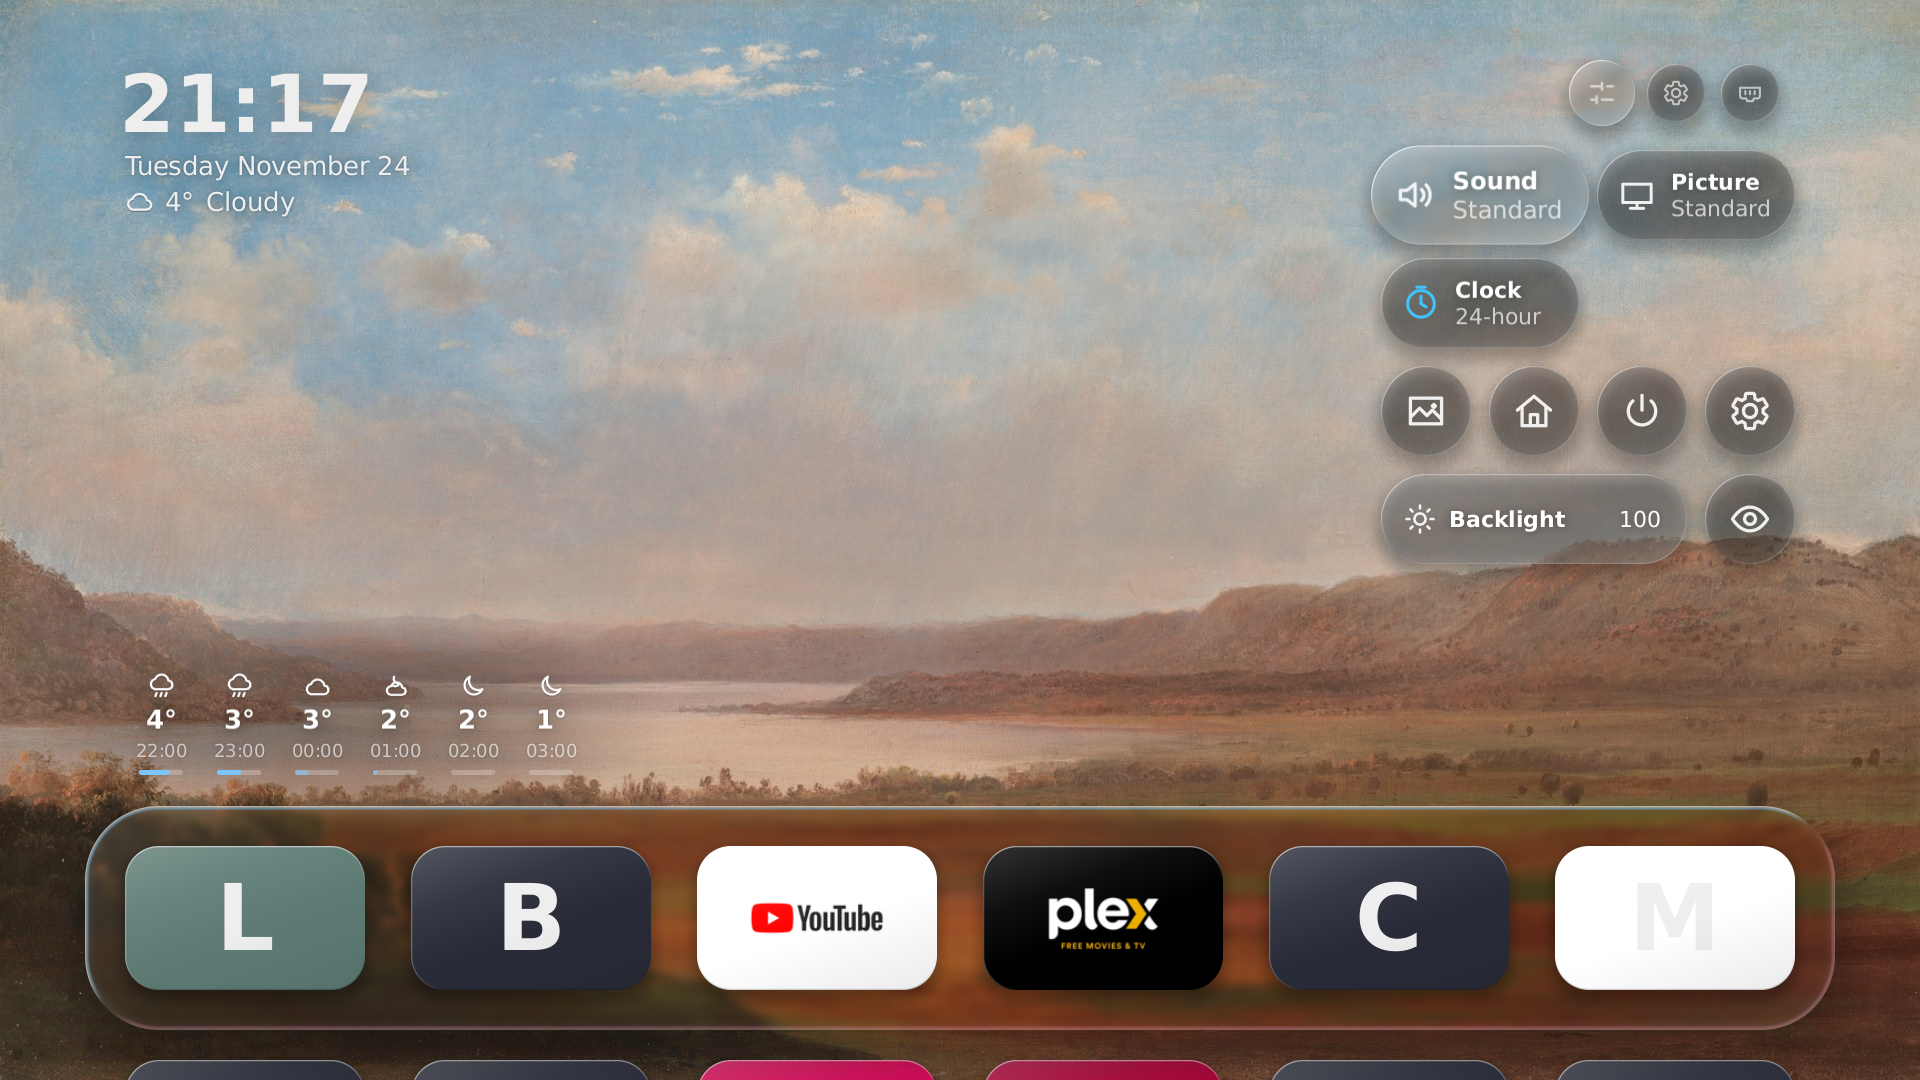
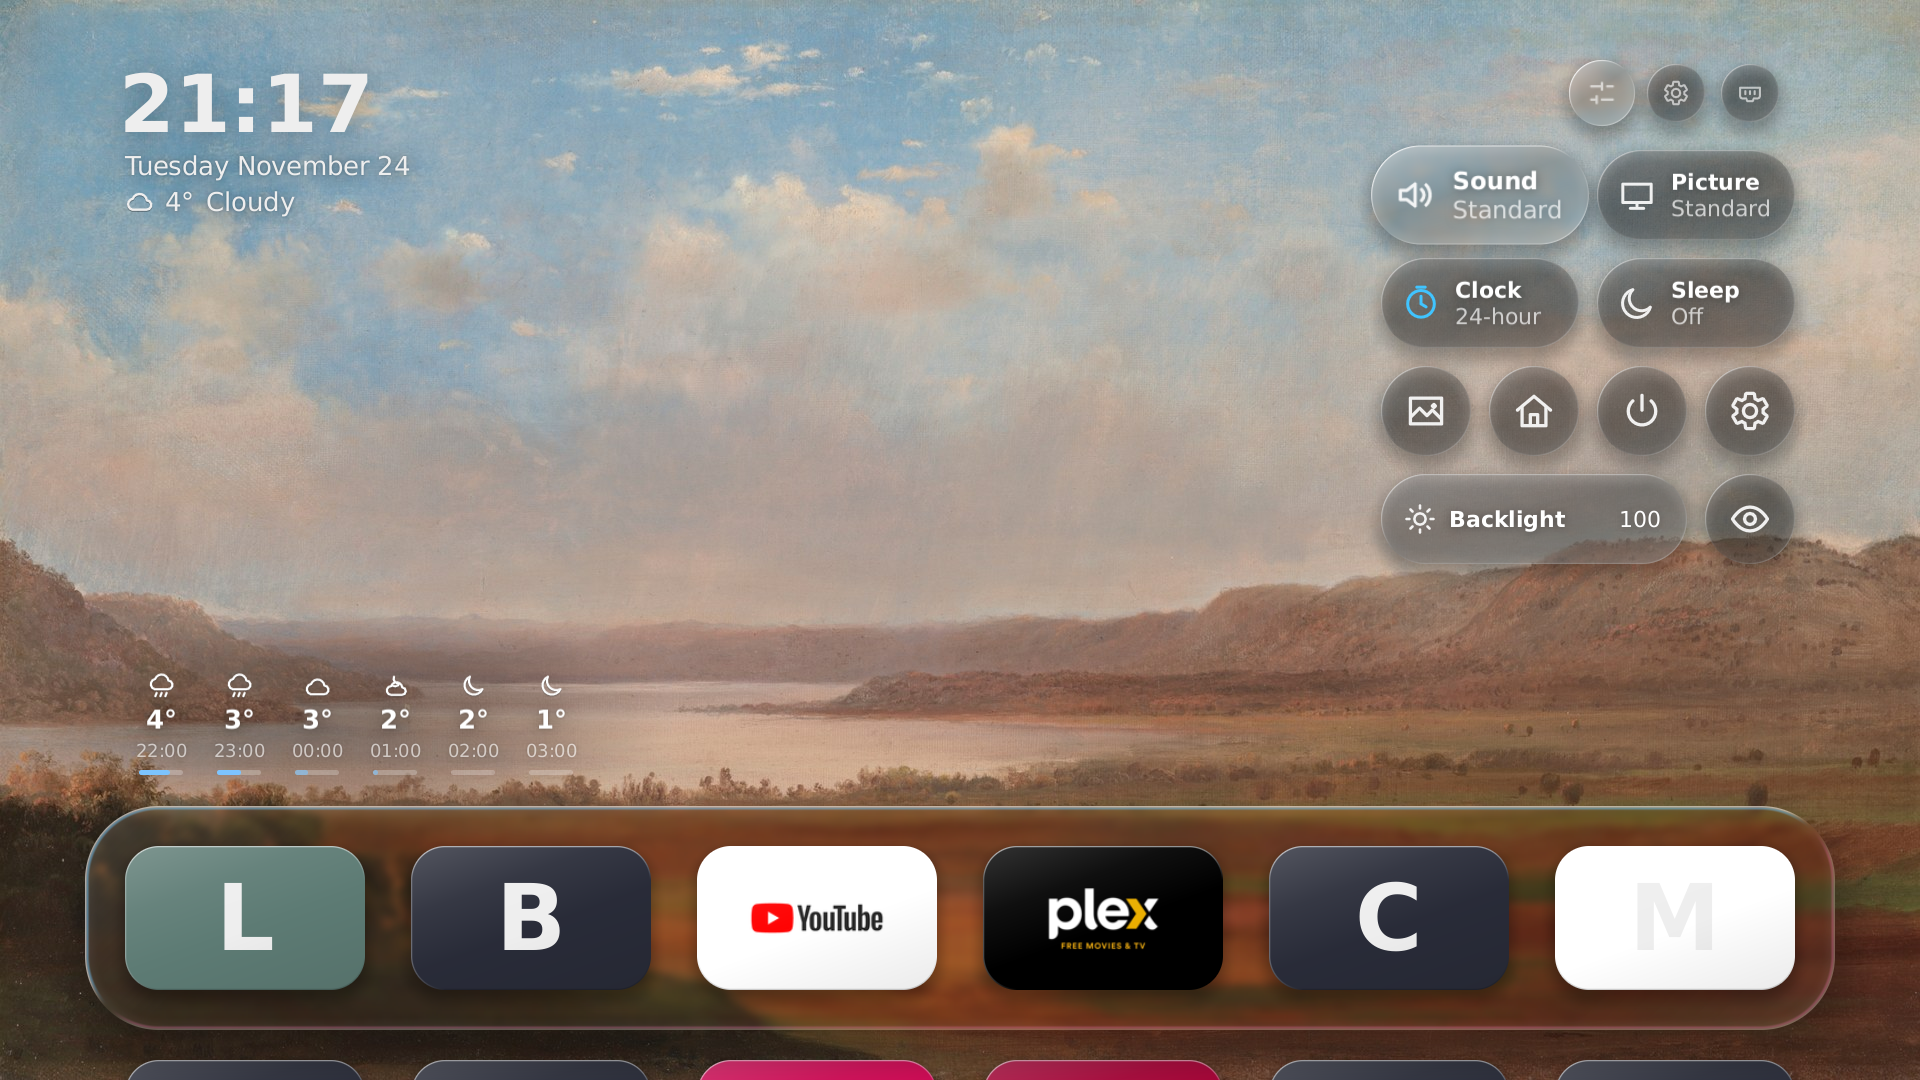
Lumen Native: Control Center has a Sleep timer where the light and dark switch was

Changed region(s): [[0.8125, 0.2139, 0.9375, 0.3361]]

diff --git a/native/lumen/src/control_center.rs b/native/lumen/src/control_center.rs
@@ -32,6 +32,7 @@ enum Cell {
     Sound,
     Picture,
     Clock,
+    Sleep,
     Art,
     Home,
     ScreenOff,
@@ -40,14 +41,15 @@ enum Cell {
     Eye,
 }
 
-// ponytail: the Theme tile (dark only) and Restart, which only Quick Settings' layout shows
+// ponytail: Restart, which only Quick Settings' layout shows
 const GRID: [&[(Cell, usize)]; 4] = [
     &[(Cell::Sound, 2), (Cell::Picture, 2)],
-    &[(Cell::Clock, 2)],
+    &[(Cell::Clock, 2), (Cell::Sleep, 2)],
     &[(Cell::Art, 1), (Cell::Home, 1), (Cell::ScreenOff, 1), (Cell::Settings, 1)],
     &[(Cell::Backlight, 3), (Cell::Eye, 1)],
 ];
 const COLUMNS: usize = 4;
+const SLEEP_CHOICES: [&str; 7] = ["off", "10", "30", "60", "90", "120", "180"];
 
 const UNIT: f32 = 90.0;
 const GAP: f32 = 18.0;
@@ -95,6 +97,7 @@ const CAPTION: Style = Style { shadows: &CAPTION_SHADOW, ..NAME };
 
 const SPEAKER: &str = "M4 9.5h3.5L12 6v12l-4.5-3.5H4zM15.5 9a4 4 0 0 1 0 6M18 6.5a8 8 0 0 1 0 11";
 const PICTURE: &str = "M3.5 5.5h17v11h-17zM8 20h8M12 16.5V20";
+const MOON: &str = "M20 14.5A8.5 8.5 0 1 1 9.5 4a6.8 6.8 0 0 0 10.5 10.5z";
 const TIMER: &str = "M12 8v4.5l3 1.8M12 4.5a8 8 0 1 0 0 16 8 8 0 0 0 0-16zM9.5 2.5h5";
 const HOUSE: &str = "M3 11.5 12 4l9 7.5M5.5 9.8V20h13V9.8M10 20v-6h4v6";
 const GEAR: &str = "M19.14 12.94c.04-.3.06-.61.06-.94 0-.32-.02-.64-.07-.94l2.03-1.58c.18-.14.23-.41.12-.61l-1.92-3.32c-.12-.22-.37-.29-.59-.22l-2.39.96c-.5-.38-1.03-.7-1.62-.94l-.36-2.54c-.04-.24-.24-.41-.48-.41h-3.84c-.24 0-.43.17-.47.41l-.36 2.54c-.59.24-1.13.57-1.62.94l-2.39-.96c-.22-.08-.47 0-.59.22L2.74 8.87c-.12.21-.08.47.12.61l2.03 1.58c-.05.3-.09.63-.09.94s.02.64.07.94l-2.03 1.58c-.18.14-.23.41-.12.61l1.92 3.32c.12.22.37.29.59.22l2.39-.96c.5.38 1.03.7 1.62.94l.36 2.54c.05.24.24.41.48.41h3.84c.24 0 .44-.17.47-.41l.36-2.54c.59-.24 1.13-.56 1.62-.94l2.39.96c.22.08.47 0 .59-.22l1.92-3.32c.12-.22.07-.47-.12-.61l-2.01-1.58zM12 15.6c-1.98 0-3.6-1.62-3.6-3.6s1.62-3.6 3.6-3.6 3.6 1.62 3.6 3.6-1.62 3.6-3.6 3.6z";
@@ -180,6 +183,7 @@ fn cell_label(cell: Cell) -> &'static str {
         Cell::Sound => "Sound",
         Cell::Picture => "Picture",
         Cell::Clock => "Clock",
+        Cell::Sleep => "Sleep",
         Cell::Art => "Screensaver",
         Cell::Home => "LG Home",
         Cell::ScreenOff => "Screen off",
@@ -203,6 +207,7 @@ fn list_glyph(cell: Cell) -> &'static str {
     match cell {
         Cell::Sound => SPEAKER,
         Cell::Picture => PICTURE,
+        Cell::Sleep => MOON,
         _ => TIMER,
     }
 }
@@ -219,6 +224,7 @@ fn options(cell: Cell) -> Vec<(String, String)> {
     match cell {
         Cell::Sound => SOUND_MODES.iter().map(|m| (m.to_string(), tvcontrols::sound_label(m).to_string())).collect(),
         Cell::Picture => PICTURE_MODES.iter().map(|m| (m.to_string(), tvcontrols::picture_label(m).to_string())).collect(),
+        Cell::Sleep => SLEEP_CHOICES.iter().map(|m| (m.to_string(), tvcontrols::sleep_label(m))).collect(),
         _ => ["auto", "12h", "24h"].iter().map(|f| (f.to_string(), clock_label(f).to_string())).collect(),
     }
 }
@@ -318,7 +324,7 @@ struct Row<'a> {
     mark: Mark,
     mark_box: f32,
     name: &'a str,
-    sub: Option<&'a str>,
+    sub: Option<String>,
     ink: [f32; 3],
 }
 
@@ -535,7 +541,7 @@ impl ControlCenter {
                 });
                 Outcome::Stay
             }
-            Cell::Sound | Cell::Picture | Cell::Clock => {
+            Cell::Sound | Cell::Picture | Cell::Clock | Cell::Sleep => {
                 self.open_menu(cell, now);
                 Outcome::Stay
             }
@@ -558,6 +564,7 @@ impl ControlCenter {
         match cell {
             Cell::Sound => values.sound.clone(),
             Cell::Picture => values.picture.clone(),
+            Cell::Sleep => values.sleep.clone(),
             _ => self.clock_format.clone(),
         }
     }
@@ -609,6 +616,17 @@ impl ControlCenter {
                 tvcontrols::set_picture_mode(&value, |done| match done {
                     Ok(()) => tvcontrols::read_backlight(),
                     Err(_) => toast_later("Couldn't change the picture mode"),
+                });
+                Outcome::Stay
+            }
+            Cell::Sleep => {
+                let before = values.sleep;
+                tvcontrols::patch(|c| c.sleep = value.clone());
+                tvcontrols::set_sleep_timer(&value, move |done| {
+                    if done.is_err() {
+                        tvcontrols::patch(|c| c.sleep = before);
+                        toast_later("Couldn't set the sleep timer");
+                    }
                 });
                 Outcome::Stay
             }
@@ -670,16 +688,17 @@ impl ControlCenter {
         if let Some(text) = d.text(row.name, &NAME) {
             text.draw_scaled(d, tx, cy + name_baseline * k, k, alpha);
         }
-        if let Some(text) = row.sub.and_then(|sub| d.text(sub, &SUB)) {
+        if let Some(text) = row.sub.as_deref().and_then(|sub| d.text(sub, &SUB)) {
             text.draw_scaled(d, tx, cy + 21.2 * k, k, 0.7 * alpha);
         }
     }
 
     fn tile_row<'a>(&'a self, cell: Cell, values: &'a Controls) -> Row<'a> {
         let (sub, on) = match cell {
-            Cell::Sound => (tvcontrols::sound_label(&values.sound), false),
-            Cell::Picture => (tvcontrols::picture_label(&values.picture), false),
-            _ => (clock_label(&self.clock_format), self.clock_format != "auto"),
+            Cell::Sound => (tvcontrols::sound_label(&values.sound).to_string(), false),
+            Cell::Picture => (tvcontrols::picture_label(&values.picture).to_string(), false),
+            Cell::Sleep => (tvcontrols::sleep_label(&values.sleep), values.sleep != "off"),
+            _ => (clock_label(&self.clock_format).to_string(), self.clock_format != "auto"),
         };
         Row {
             width: 2.0 * UNIT + GAP,
@@ -696,7 +715,7 @@ impl ControlCenter {
         let k = scale * (1.0 + (FOCUS_LIFT - 1.0) * f);
         Self::glass(d, cx, cy, w * k, h * k, f, alpha);
         match cell {
-            Cell::Sound | Cell::Picture | Cell::Clock => Self::row_inside(d, &self.tile_row(cell, values), cx, cy, k, alpha),
+            Cell::Sound | Cell::Picture | Cell::Clock | Cell::Sleep => Self::row_inside(d, &self.tile_row(cell, values), cx, cy, k, alpha),
             Cell::Backlight => {
                 let filled = w * values.backlight as f32 / 100.0;
                 let (x, y) = (cx - w * k / 2.0, cy - h * k / 2.0);
@@ -896,6 +915,12 @@ mod tests {
 
     fn press(panel: &mut ControlCenter, keys: &[Key], now: u32) -> Outcome {
         keys.iter().fold(Outcome::Stay, |_, key| panel.react(*key, now, 160.0))
+    }
+
+    #[test]
+    fn every_sleep_time_offered_is_one_the_tv_takes_and_the_list_is_no_longer_than_picture_modes() {
+        assert!(SLEEP_CHOICES.iter().all(|m| crate::root::SLEEP_MINUTES.contains(m)));
+        assert!(options(Cell::Sleep).len() <= options(Cell::Picture).len());
     }
 
     #[test]

diff --git a/native/lumen/src/root.rs b/native/lumen/src/root.rs
@@ -17,6 +17,7 @@ const GET_SETTINGS: &str = "luna://com.webos.settingsservice/getSystemSettings";
 const SET_SETTINGS: &str = "luna://com.webos.settingsservice/setSystemSettings";
 const SCREEN_OFF: &str = "luna://com.webos.service.tvpower/power/turnOffScreen";
 pub const PICTURE_MODES: [&str; 7] = ["vivid", "normal", "eco", "cinema", "sports", "game", "filmMaker"];
+pub const SLEEP_MINUTES: [&str; 9] = ["off", "10", "20", "30", "60", "90", "120", "180", "240"];
 pub const SOUND_MODES: [&str; 7] = ["standard", "news", "movie", "music", "sports", "game", "aiSound"];
 const NATIVE_DIR: &str = "/media/developer/apps/usr/palm/applications/com.samrenfrew.lumen.native";
 const TV_SCRIPTS: [&str; 6] = ["watch.sh", "stadia.sh", "resume.sh", "home-setup.sh", "privacy.sh", "gear.sh"];
@@ -143,6 +144,7 @@ fn setting_category(key: &str) -> Option<&'static str> {
     match key {
         "pictureMode" | "backlight" | "eyeComfortMode" => Some("picture"),
         "soundMode" => Some("sound"),
+        "sleepTimer" => Some("time"),
         _ => None,
     }
 }
@@ -151,6 +153,7 @@ fn setting_value_allowed(key: &str, value: &str) -> bool {
     match key {
         "pictureMode" => PICTURE_MODES.contains(&value),
         "soundMode" => SOUND_MODES.contains(&value),
+        "sleepTimer" => SLEEP_MINUTES.contains(&value),
         "backlight" => value.parse::<u8>().is_ok_and(|level| level <= 100 && level.to_string() == value),
         "eyeComfortMode" => value == "on" || value == "off",
         _ => false,
@@ -575,7 +578,11 @@ mod tests {
         );
         assert!(set_setting_command("soundMode", "aiSound").is_some());
         assert!(set_setting_command("backlight", "0").is_some() && set_setting_command("backlight", "100").is_some());
-        for (key, value) in [("pictureMode", "expert1"), ("backlight", "101"), ("backlight", "07"), ("backlight", "-1"), ("eyeComfortMode", "on'; reboot"), ("energySaving", "off")] {
+        assert_eq!(
+            set_setting_command("sleepTimer", "30").as_deref(),
+            Some(r#"luna-send -n 1 'luna://com.webos.settingsservice/setSystemSettings' '{"category":"time","settings":{"sleepTimer":"30"}}'"#)
+        );
+        for (key, value) in [("sleepTimer", "45"), ("pictureMode", "expert1"), ("backlight", "101"), ("backlight", "07"), ("backlight", "-1"), ("eyeComfortMode", "on'; reboot"), ("energySaving", "off")] {
             assert_eq!(set_setting_command(key, value), None, "{key}={value}");
         }
     }

diff --git a/native/lumen/src/tvcontrols.rs b/native/lumen/src/tvcontrols.rs
@@ -9,12 +9,13 @@ pub struct Controls {
     pub sound: String,
     pub backlight: i32,
     pub eye_comfort: bool,
+    pub sleep: String,
 }
 
 static LAST: Mutex<Option<Controls>> = Mutex::new(None);
 
 fn before_any_read() -> Controls {
-    Controls { picture: "normal".into(), sound: "standard".into(), backlight: 100, eye_comfort: false }
+    Controls { picture: "normal".into(), sound: "standard".into(), backlight: 100, eye_comfort: false, sleep: "off".into() }
 }
 
 pub fn picture_label(mode: &str) -> &str {
@@ -82,6 +83,11 @@ pub fn read_all() {
             patch(|c| c.sound = mode);
         }
     });
+    root::get_setting("sleepTimer", |v| {
+        if let Some(minutes) = v.ok().filter(|m| !m.is_empty()) {
+            patch(|c| c.sleep = minutes);
+        }
+    });
     root::get_setting("eyeComfortMode", |v| {
         if let Ok(mode) = v {
             patch(|c| c.eye_comfort = mode == "on");
@@ -117,6 +123,19 @@ pub fn set_sound_mode(mode: &str, then: impl FnOnce(Result<(), String>) + Send +
     set("soundMode", mode, then);
 }
 
+pub fn set_sleep_timer(minutes: &str, then: impl FnOnce(Result<(), String>) + Send + 'static) {
+    set("sleepTimer", minutes, then);
+}
+
+pub fn sleep_label(minutes: &str) -> String {
+    match minutes.parse::<u32>() {
+        Ok(m) if m >= 60 && m % 60 == 0 => format!("{} hr", m / 60),
+        Ok(m) if m >= 60 => format!("{} hr {} min", m / 60, m % 60),
+        Ok(m) => format!("{m} min"),
+        Err(_) => "Off".to_string(),
+    }
+}
+
 pub fn set_backlight(level: i32, then: impl FnOnce(Result<(), String>) + Send + 'static) {
     set("backlight", &level.to_string(), then);
 }
@@ -127,4 +146,15 @@ pub fn set_eye_comfort(on: bool, then: impl FnOnce(Result<(), String>) + Send + 
 
 pub fn screen_off(then: impl FnOnce(Result<(), String>) + Send + 'static) {
     root::screen_off(then);
+}
+
+#[cfg(test)]
+mod tests {
+    use super::*;
+
+    #[test]
+    fn the_sleep_timer_reads_in_minutes_then_hours_and_off_when_unset() {
+        let shown: Vec<String> = crate::root::SLEEP_MINUTES.iter().map(|m| sleep_label(m)).collect();
+        assert_eq!(shown, ["Off", "10 min", "20 min", "30 min", "1 hr", "1 hr 30 min", "2 hr", "3 hr", "4 hr"]);
+    }
 }

diff --git a/docs/plans/native-rewrite.md b/docs/plans/native-rewrite.md
@@ -166,6 +166,7 @@ reach the native one, so Settings can be ported late.
    re-order and the hold-OK menu, captions, toasts, the pointer, in English. Then the Home
    button points at it and Sam uses it daily.
 3. **Control Center and Inputs**, in Lumen and as Quick Settings over any app. The brightness schedule.
+   **Sleep timer (Sam, 2026-11-24)** takes the light/dark tile's place: it sets the TV's own `sleepTimer` (category `time`), which the TV takes and reads back. (verify) that the TV switches off when it runs out.
 4. **Live TV.** The row, Now and Next, the Full guide, typed channel numbers, and the Guide over Live TV.
    **Data ported 2026-11-24, not yet drawn:** `native/lumen/src/livetv.rs` reads the channels, Now and Next, the guide
    service and the schedule through root (the app's bus role is public only, so it cannot call `iepg` or `epgdb` itself),
